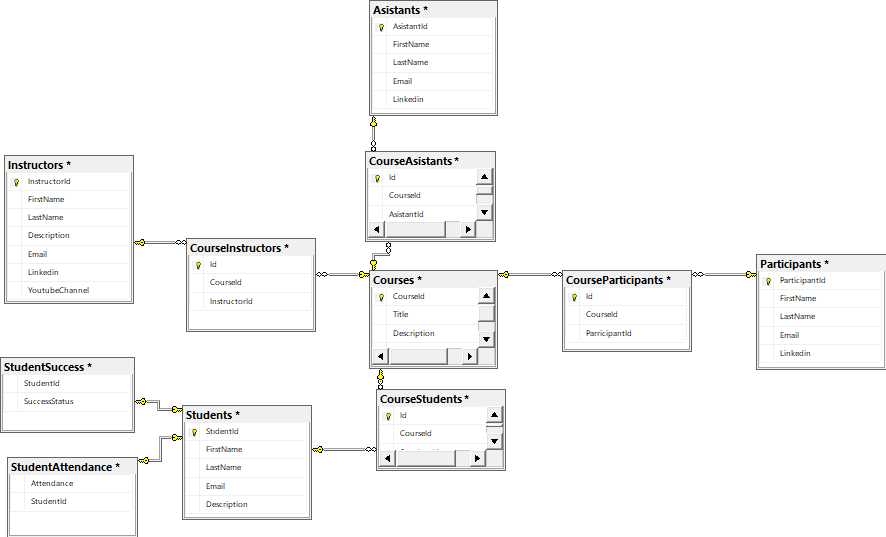
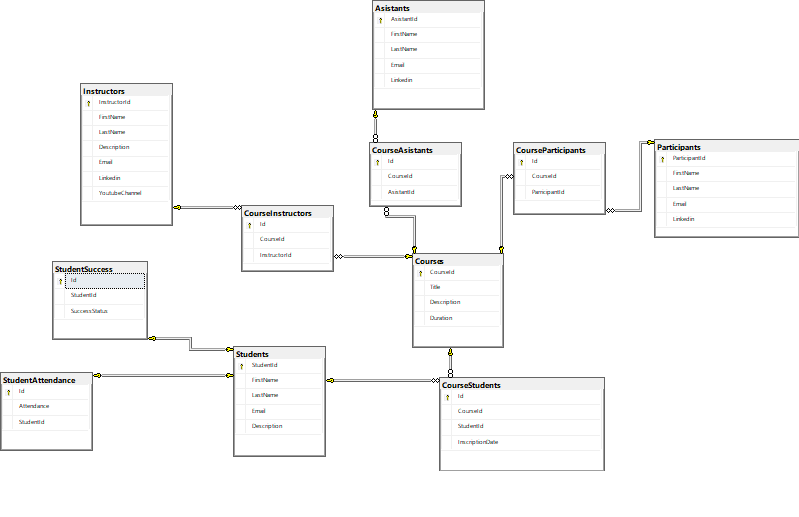
Changed diagram and readme

Changed region(s): [[0.0, 0.0, 1.0, 1.0], [0.0, 0.1547, 0.1802, 0.619], [0.6308, 0.2785, 0.781, 0.4333]]

diff --git a/README.md b/README.md
@@ -1,5 +1,6 @@
 
-# 3. Hafta Ödev + WebApi Improvement(CQRS,Generic Repository)
+# 3. Hafta Ödev + WebApi Improvement from the week 2(CQRS,Generic Repository) + CleanArch
+Her bir bölümde yapınanlar hakkındaki açıklamaları aşağıda bulabilirsiniz.
 Veritabanı 
 1. Patikadev yapısını düşünerek bir db oluşturun
   - eğitimler, öğrenciler,katılımcılar,eğitmenler,asistanlar, eğitimde öğrencilerin yoklamalarının ve başarı durumlarının tutulduğu tablolar olacaktır.
@@ -16,10 +17,18 @@ Veritabanı
 
 <hr>
 
+## 3. Hafta Ödev
+1.  Veri tabanının tabloları oluşturuldu ve tablolar arası ilişkiler oluşturuldu. Aşağıdaki diagramdan inceleyebilirisiniz.
+![Diagram](https://github.com/Patika-dev-Unlu-Co-Net-Bootcamp/BarisTutakli.Week3/blob/main/Diagram0.png?raw=true)
+2. UpdateStudentSuccessStatusWeekly isimli Trigger oluşturuldu.
+3. SP_RegisterNewStudent adlı store proc oluşturuldu.
+4. OrderByCourseId ve ListStudentDetails adlı iki view oluşturuldu.
+<hr>
+
 ## WebApi Improvement(CQRS,Generic Repository)
 
 ### Generic Repository Pattern
-To apply gerenric repository, i created 5 interfaces and 5  implementation of these interfaces. Each class has only one responsibility. Separating classes acording to their responsibilities lets us to use them separetly.
+To apply gerenric repository, i created 5 interfaces and 5  implementation of these interfaces. Each class has only one responsibility. I created separated files because of single responsibility principle. 
 
 #### Common/Base
 ##### Common/Base/Abstract
@@ -91,5 +100,8 @@ In the directory of ProductOperations, i created following folders and classes:
         }
     }
 ```
-### Mediatr Pattern(manually)
-I extended IServiceCollection by creating a static class and static method named **CustomMediatR** in **Services** folder. I added all the other required processes using the dependency injection method in ProductController.
+### Extendent IServicesCollection
+I extended IServiceCollection by creating a static class and static in **Services** folder. I added all the other required processes using the dependency injection method in ProductController.
+
+## CleanArch Project 
+I started **CleanArch** project and created Application and API layer. 
